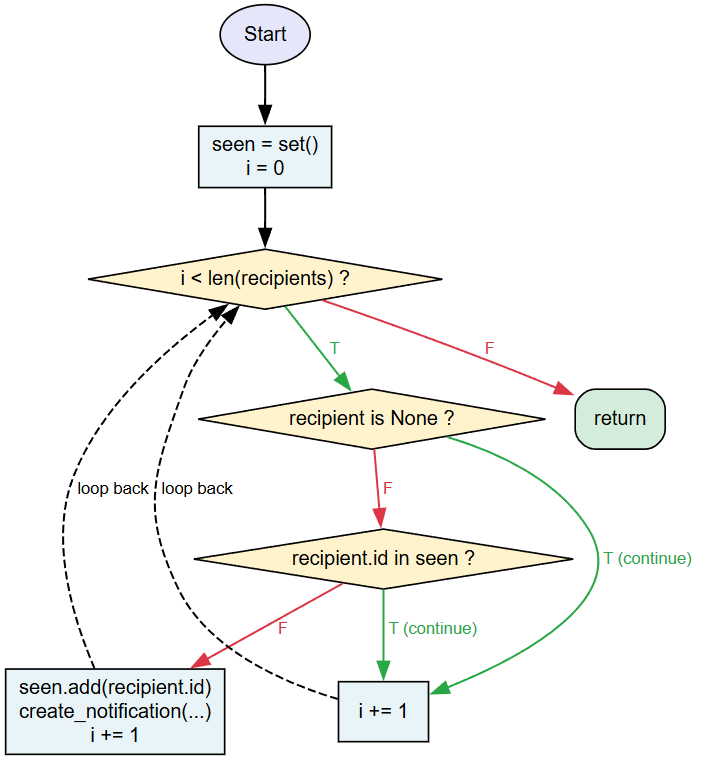
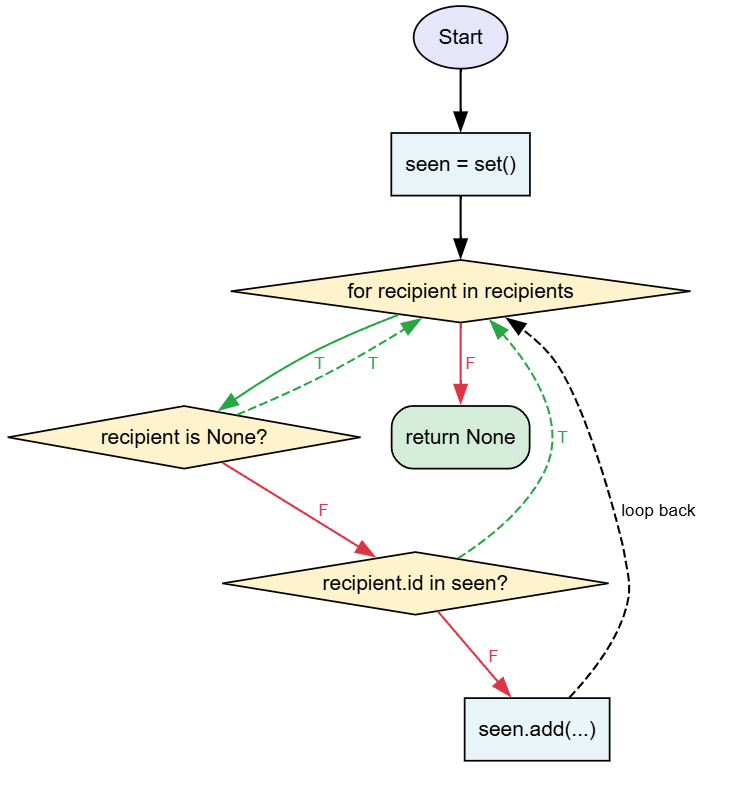
feat: BB e WB

diff --git a/src/backend/tests/blackbox/test_create_report.py b/src/backend/tests/blackbox/test_create_report.py
@@ -20,7 +20,12 @@ VALID_PHOTO4 = FileStorage(filename="foto_buca4.jpg")
 INVALID_PHOTO = FileStorage(filename="") 
 
 @pytest.fixture
-def seed_create_report_data() -> None:
+def seed_create_report_data(db_session) -> None:
+    # Popola il sistema con i dati nessesari per `create_report`.
+    #
+	# Le categorie 0-9 sono valide
+    # categoria 4 è valida e attiva
+	# categoria 5 è valida ma inattiva
     pass
 
 @pytest.mark.skip(reason="Disabled")
@@ -29,7 +34,7 @@ def seed_create_report_data() -> None:
 	[
 		(VALID_REPORTER, 4, "Buca profonda", "Buca profonda in piazza Castello", 45.0710, 7.6856, [VALID_PHOTO], False, None),  # CR1
 		(VALID_REPORTER, 4, "Buca profonda", "Buca profonda in piazza Castello", 45.0710, 7.6856, [VALID_PHOTO], True, None),   # CR2
-		(VALID_REPORTER, 4, "Buca profonda", "Buca profonda in piazza Castello", 45.0710, 7.6856, [VALID_PHOTO], True, ValidationError),   # CR3
+		(VALID_REPORTER, 5, "Buca profonda", "Buca profonda in piazza Castello", 45.0710, 7.6856, [VALID_PHOTO], True, ValidationError),   # CR3
 		(VALID_REPORTER, None, "Buca profonda", "Buca profonda in piazza Castello", 45.0710, 7.6856, [VALID_PHOTO], True, ValidationError),   # CR4
 		(VALID_REPORTER, "", "Buca profonda", "Buca profonda in piazza Castello", 45.0710, 7.6856, [VALID_PHOTO], False, ValidationError),   # CR5
 		(VALID_REPORTER, "df", "Buca profonda", "Buca profonda in piazza Castello", 45.0710, 7.6856, [VALID_PHOTO], True, ValidationError),   # CR6
@@ -58,9 +63,8 @@ def seed_create_report_data() -> None:
 		(VALID_REPORTER, 4, "Buca profonda", "Buca profonda in piazza Castello", 45.0710, 7.6856, [VALID_PHOTO, VALID_PHOTO2, VALID_PHOTO3, VALID_PHOTO4], False, ValidationError),  # CRB13
 	],
 )
-def test_create_report(reporter, category_id, title, description, latitude, longitude, photos, is_anonymous, expected_exception):
+def test_create_report(reporter, category_id, title, description, latitude, longitude, photos, is_anonymous, expected_exception, seed_create_report_data):
 	report_service = ReportService()
-
 	if expected_exception:
 		with pytest.raises(expected_exception):
 			report_service.create_report(reporter, category_id, title, description, latitude, longitude, photos, is_anonymous)

diff --git a/src/backend/tests/blackbox/test_verify_password.py b/src/backend/tests/blackbox/test_verify_password.py
@@ -4,8 +4,7 @@ import pytest
 
 from participium.core.security import verify_password
 
-# Utilizziamo stringhe costanti per effettuare i test a causa di una 
-# mancanza di una funzione che calcola l'hash realmente 
+# Utilizziamo stringhe costanti per effettuare i test a causa di una mancanza di una funzione che calcola l'hash realmente 
 PASSWORD = "pass123"
 CORRECT_HASH = "HASH_OF_pass123"
 WRONG_HASH = "HASH_OF_xxx"

diff --git a/src/backend/tests/blackbox/test_send_message.py b/src/backend/tests/blackbox/test_send_message.py
@@ -22,7 +22,7 @@ SINGLE_CHAR_BODY = "a"
 
 @pytest.fixture
 def seed_send_message_data() -> None:
-    # Qua è necessiario riempire il sistema con il report e gli utenti 
+    # È necessiario riempire il sistema con il report e gli utenti 
     # necesari per utilizare `MessagingService.send_message`.
     #
     # Configurazione da usare:

diff --git a/src/backend/tests/blackbox/test_authenticate.py b/src/backend/tests/blackbox/test_authenticate.py
@@ -1,4 +1,3 @@
-
 from __future__ import annotations
   
 import pytest

diff --git a/doc/deliverable/06_WhiteBoxReport.md b/doc/deliverable/06_WhiteBoxReport.md
@@ -154,7 +154,7 @@ Coperto dai test sopra.
 ![Control flow graph notify_status_change](../../data/img/notify_status_change.png)
 
 ## Atomic conditions
-* **C1:** `i < len(recipients)` (loop guard)
+* **C1:** `recipient in recipients` (loop guard)
 * **C2:** `recipient is None`
 * **C3:** `recipient.id in seen`
 
@@ -185,12 +185,12 @@ Lo Structural Lower Bound è quindi pari a 3 test
 | E3 | [User1] | Report1 | "Test notifica" | None | 1 notifica creata | C1 -> T, C2 -> F, C3 -> F |
 
 ## Condition coverage
-| Test | recipients | report | body | Output | Conditions evaluated | Comportamento atteso |
-|:-----|:-----------|:-------|:-----|:-------|:------|:-----|
-| C1t | [] | Report1 | "Test notifica" | None | C1=F | 0 notifiche create |
-| C2t | [None] | Report1 | "Test notifica" | None | C1 = T, C2 = T | 0 notifiche create |
-| C3t | [User1] | Report1 | "Test notifica" | None | C1 = T, C2= F, C3 = F | 1 notifica creata |
-| C4t | [User1, User1] | Report1 | "Test notifica" | None | C1 = T, C2= F, C3 = T | 1 notifica creata |
+| Test | recipients | report | body | Output | C1 | C2 | C3 | Comportamento atteso |
+|:-----|:-----------|:-------|:-----|:-------|:------|:-----|:-----| :------|
+| C1t | [] | Report1 | "Test notifica" | None | F | - | - | 0 notifiche create |
+| C2t | [None] | Report1 | "Test notifica" | None | T | T | - | 0 notifiche create |
+| C3t | [User1] | Report1 | "Test notifica" | None | T | F | F | 1 notifica creata |
+| C4t | [User1, User1] | Report1 | "Test notifica" | None | T | F | T | 1 notifica creata |
 
 ### Loop Coverage
 Tre tests: 0, 1, 2+ iterazioni

diff --git a/doc/deliverable/05_BlackBoxReport.md b/doc/deliverable/05_BlackBoxReport.md
@@ -353,7 +353,7 @@ Test realizzati considerando le 10 categorie descritte nella specifica iniziale,
 | :---- | :------- | :---------- | :---- | :---------- | :------- | :-------- | :----- | :----------- | :------- | :------ |
 |CR1| user | 4 | Buca profonda | Buca profonda in piazza Castello| 45.0710 | 7.6856 | [foto_buca.jpg] | False | Report |  L'utente è autenticato, la categoria 4 è valida e attiva |
 |CR2| user | 4 | Buca profonda | Buca profonda in piazza Castello| 45.0710 | 7.6856 | [foto_buca.jpg] | True | Report |  L'utente è autenticato, la categoria 4 è valida e attiva |
-|CR3| user | 4 | Buca profonda | Buca profonda in piazza Castello| 45.0710 | 7.6856 | [foto_buca.jpg] | True | ValidationError |  L'utente è autenticato, la categoria 4 è inattiva |
+|CR3| user | 5 | Buca profonda | Buca profonda in piazza Castello| 45.0710 | 7.6856 | [foto_buca.jpg] | True | ValidationError |  L'utente è autenticato, la categoria 5 è inattiva |
 |CR4| user | None | Buca profonda | Buca profonda in piazza Castello| 45.0710 | 7.6856 | [foto_buca.jpg] | True | ValidationError |  L'utente è autenticato |
 |CR5| user | "" | Buca profonda | Buca profonda in piazza Castello| 45.0710 | 7.6856 | [foto_buca.jpg] | False | ValidationError |  L'utente è autenticato | 
 |CR6| user | df | Buca profonda | Buca profonda in piazza Castello| 45.0710 | 7.6856 | [foto_buca.jpg] | True | ValidationError |  L'utente è autenticato|

diff --git a/notes/coverage.md b/notes/coverage.md
@@ -10,6 +10,9 @@ e per lanciare pytest e generare html per la coverage con tutti i test:
 python -m pytest --cov=participium --cov-report=html
 
 (windows)   start .\reports\coverage\html\index.html 
+oppure
+start .\htmlcov\index.html  
+
 (macOs)     open  .\reports\coverage\html\index.html 
 ```
 oppure per lanciare i test di cartelle specifiche:
